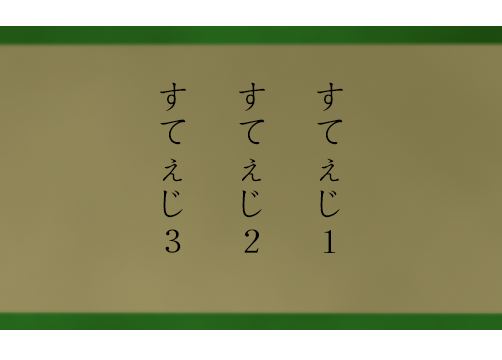
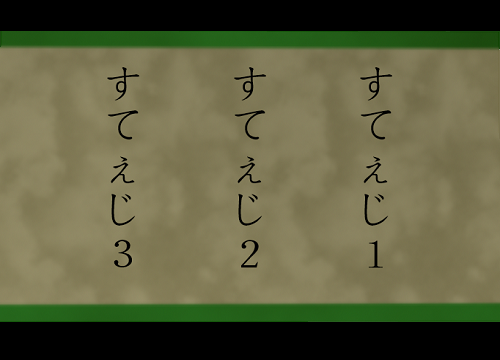
変更した巻物の紙に画像か変更しました。

diff --git a/directx_flame/dx.render_lib.cpp b/directx_flame/dx.render_lib.cpp
@@ -105,6 +105,8 @@ HRESULT Tex_Load_EX(LPDIRECT3DTEXTURE9 *pTexture,const char* text, int TexID, in
 
 void Mesh_Load_FromX(LPTSTR xfilename, pTHING pThing, D3DXVECTOR3* pvecPosition)
 {
+	memcpy(&pThing->vecPosition,pvecPosition,sizeof(D3DXVECTOR3));
+
 	LPD3DXBUFFER	pMatBuf = NULL;
 
 	if (FAILED(D3DXLoadMeshFromX(
